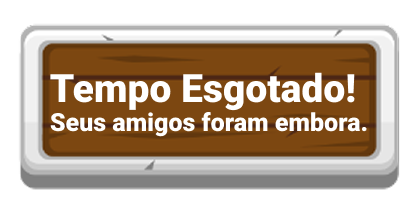
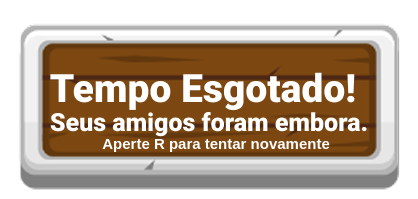
transition and retry

Changed region(s): [[0.2488, 0.6935, 0.8086, 0.7538]]

diff --git a/main.py b/main.py
@@ -397,7 +397,7 @@ def game_level():
 
     # Tempo total e estado do jogo
 
-    total_time = 210
+    total_time = 180
     
     remaining_time = total_time
     game_over = False
@@ -911,11 +911,11 @@ def game_level():
             if not sound_win_played:
                 win_sound.play()
                 sound_win_played = True
-            print("Lsdasdsadasdassdp")
             if pygame.mixer.get_busy() == False:
                 current_level += 1
                 sound_win_played = False
                 print("Level up")
+                wait_for_key()
                 return True
 
         # Define a posição onde a HUD deve aparecer na tela (por exemplo, no topo central)
@@ -935,11 +935,48 @@ def game_level():
 
         pygame.display.flip()
 
+def wait_for_key():
+            """Waits until any key is pressed."""
+            while True:
+                for event in pygame.event.get():
+                    if event.type == pygame.QUIT:
+                        pygame.quit()
+                        sys.exit()
+                    if event.type == pygame.KEYDOWN:
+                        return  
+def is_r_key_pressed():
+    """Returns True if the 'r' key is pressed, otherwise False."""
+    while True:
+        for event in pygame.event.get():
+            if event.type == pygame.QUIT:
+                pygame.quit()
+                sys.exit()
+            if event.type == pygame.KEYDOWN:
+                if event.key == pygame.K_r:
+                    return True
+                elif event.key == pygame.K_ESCAPE:
+                    pygame.quit()
+                    sys.exit() 
+             
+
 if __name__ == "__main__":
 
     # Add more levels as needed
+    try_again = True
+    passed_level = False
 
-    if game_level():
-        ROWS = len(current_maze)
-        COLS = len(current_maze[0])
-        game_level()
+    while try_again:
+        if game_level():
+            try_again = False
+            passed_level = True
+        elif not is_r_key_pressed():
+            try_again = False
+
+    try_again = True
+    while passed_level and try_again:
+        if game_level():
+            try_again = False
+            passed_level = True
+        elif not is_r_key_pressed():
+            try_again = False
+
